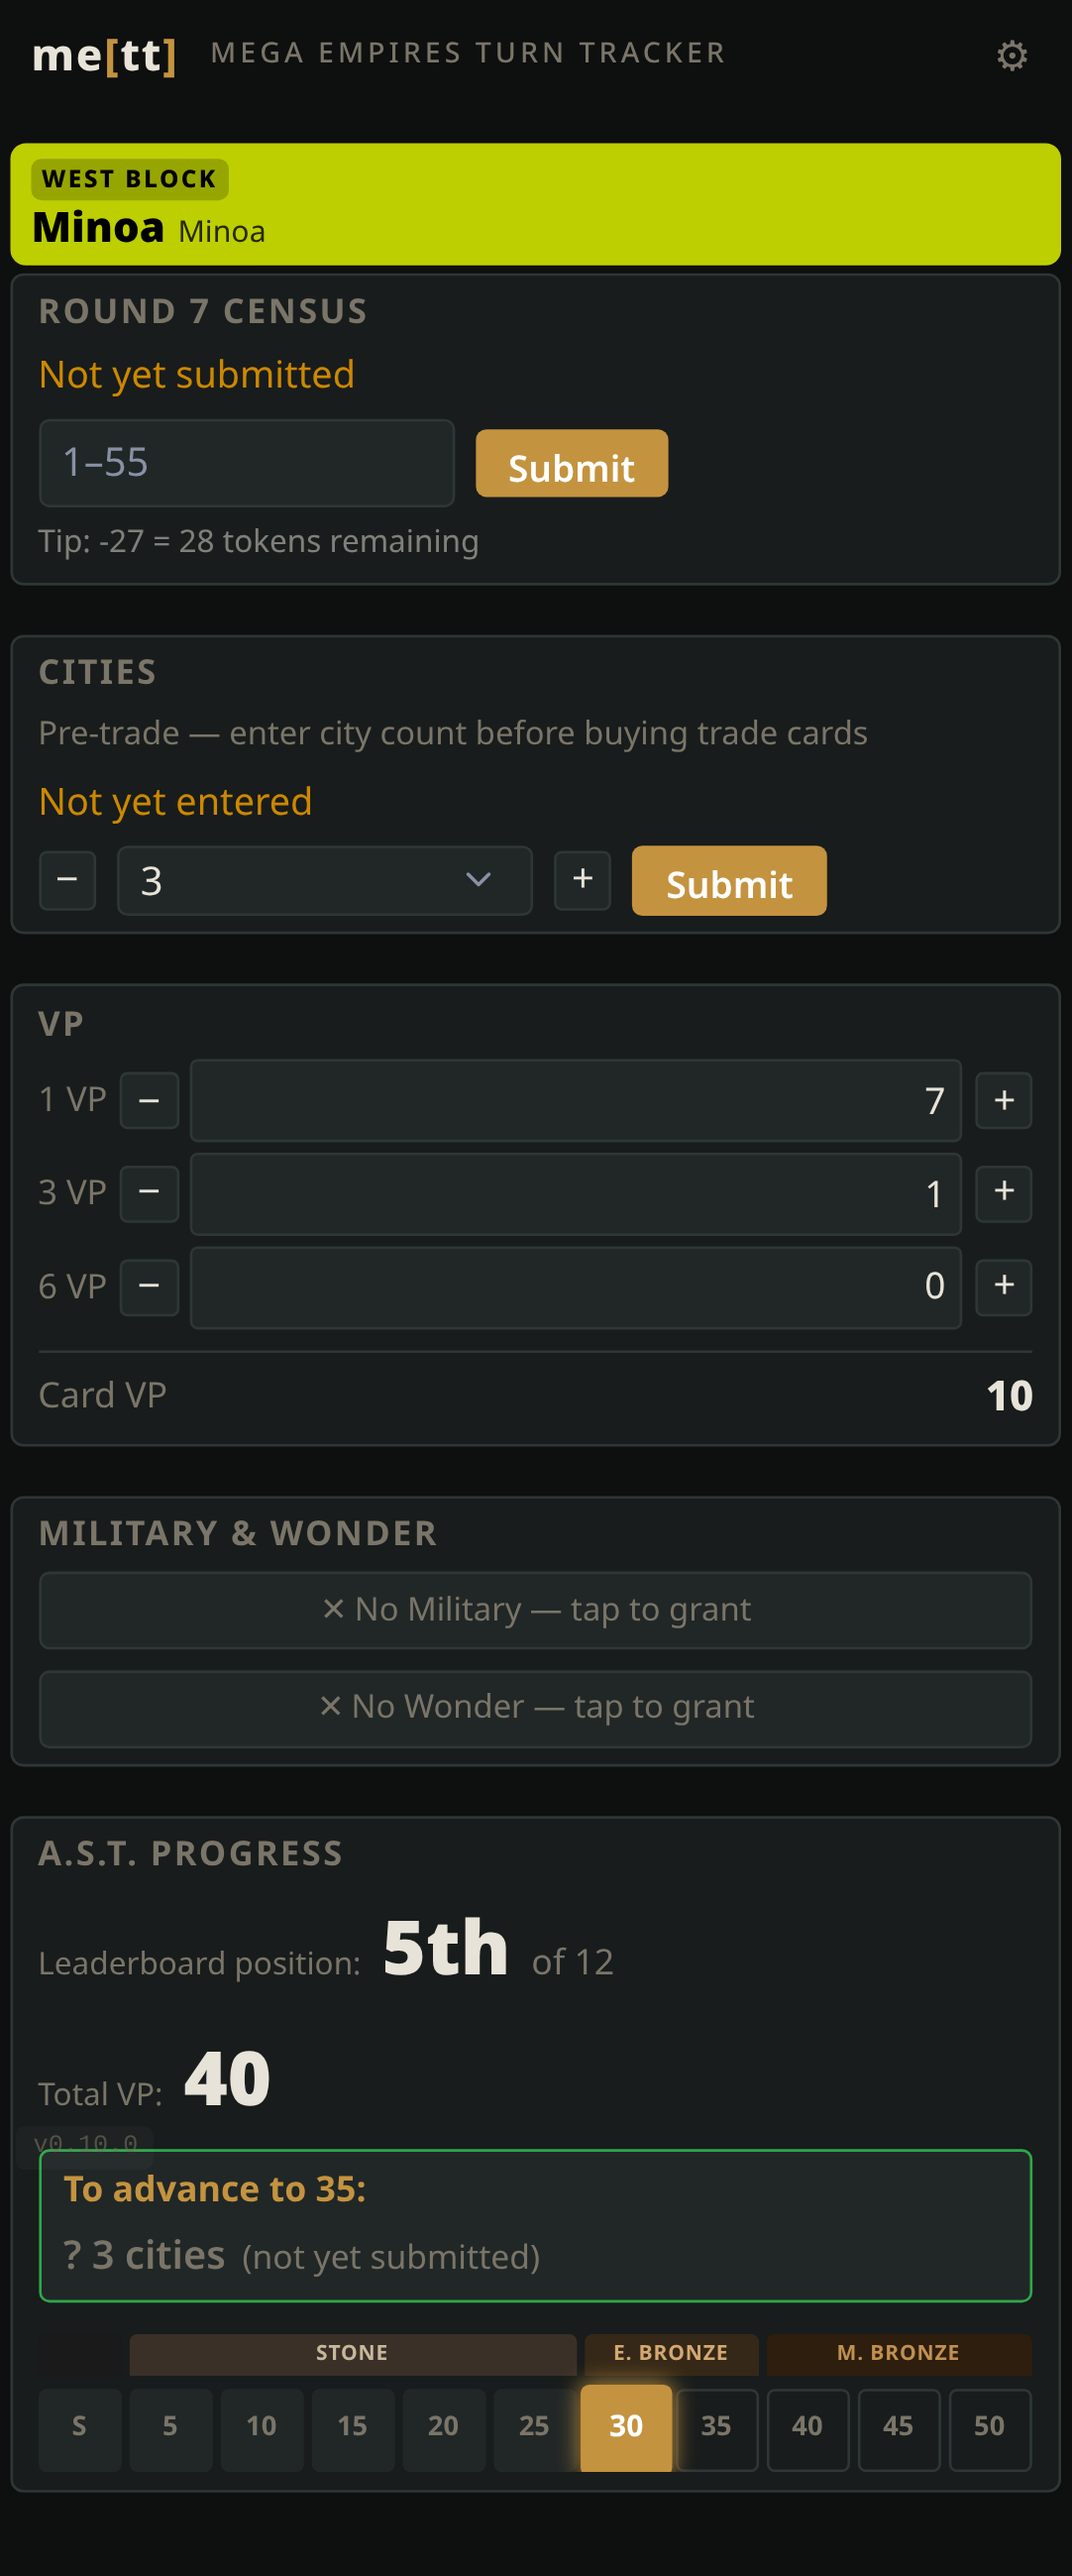
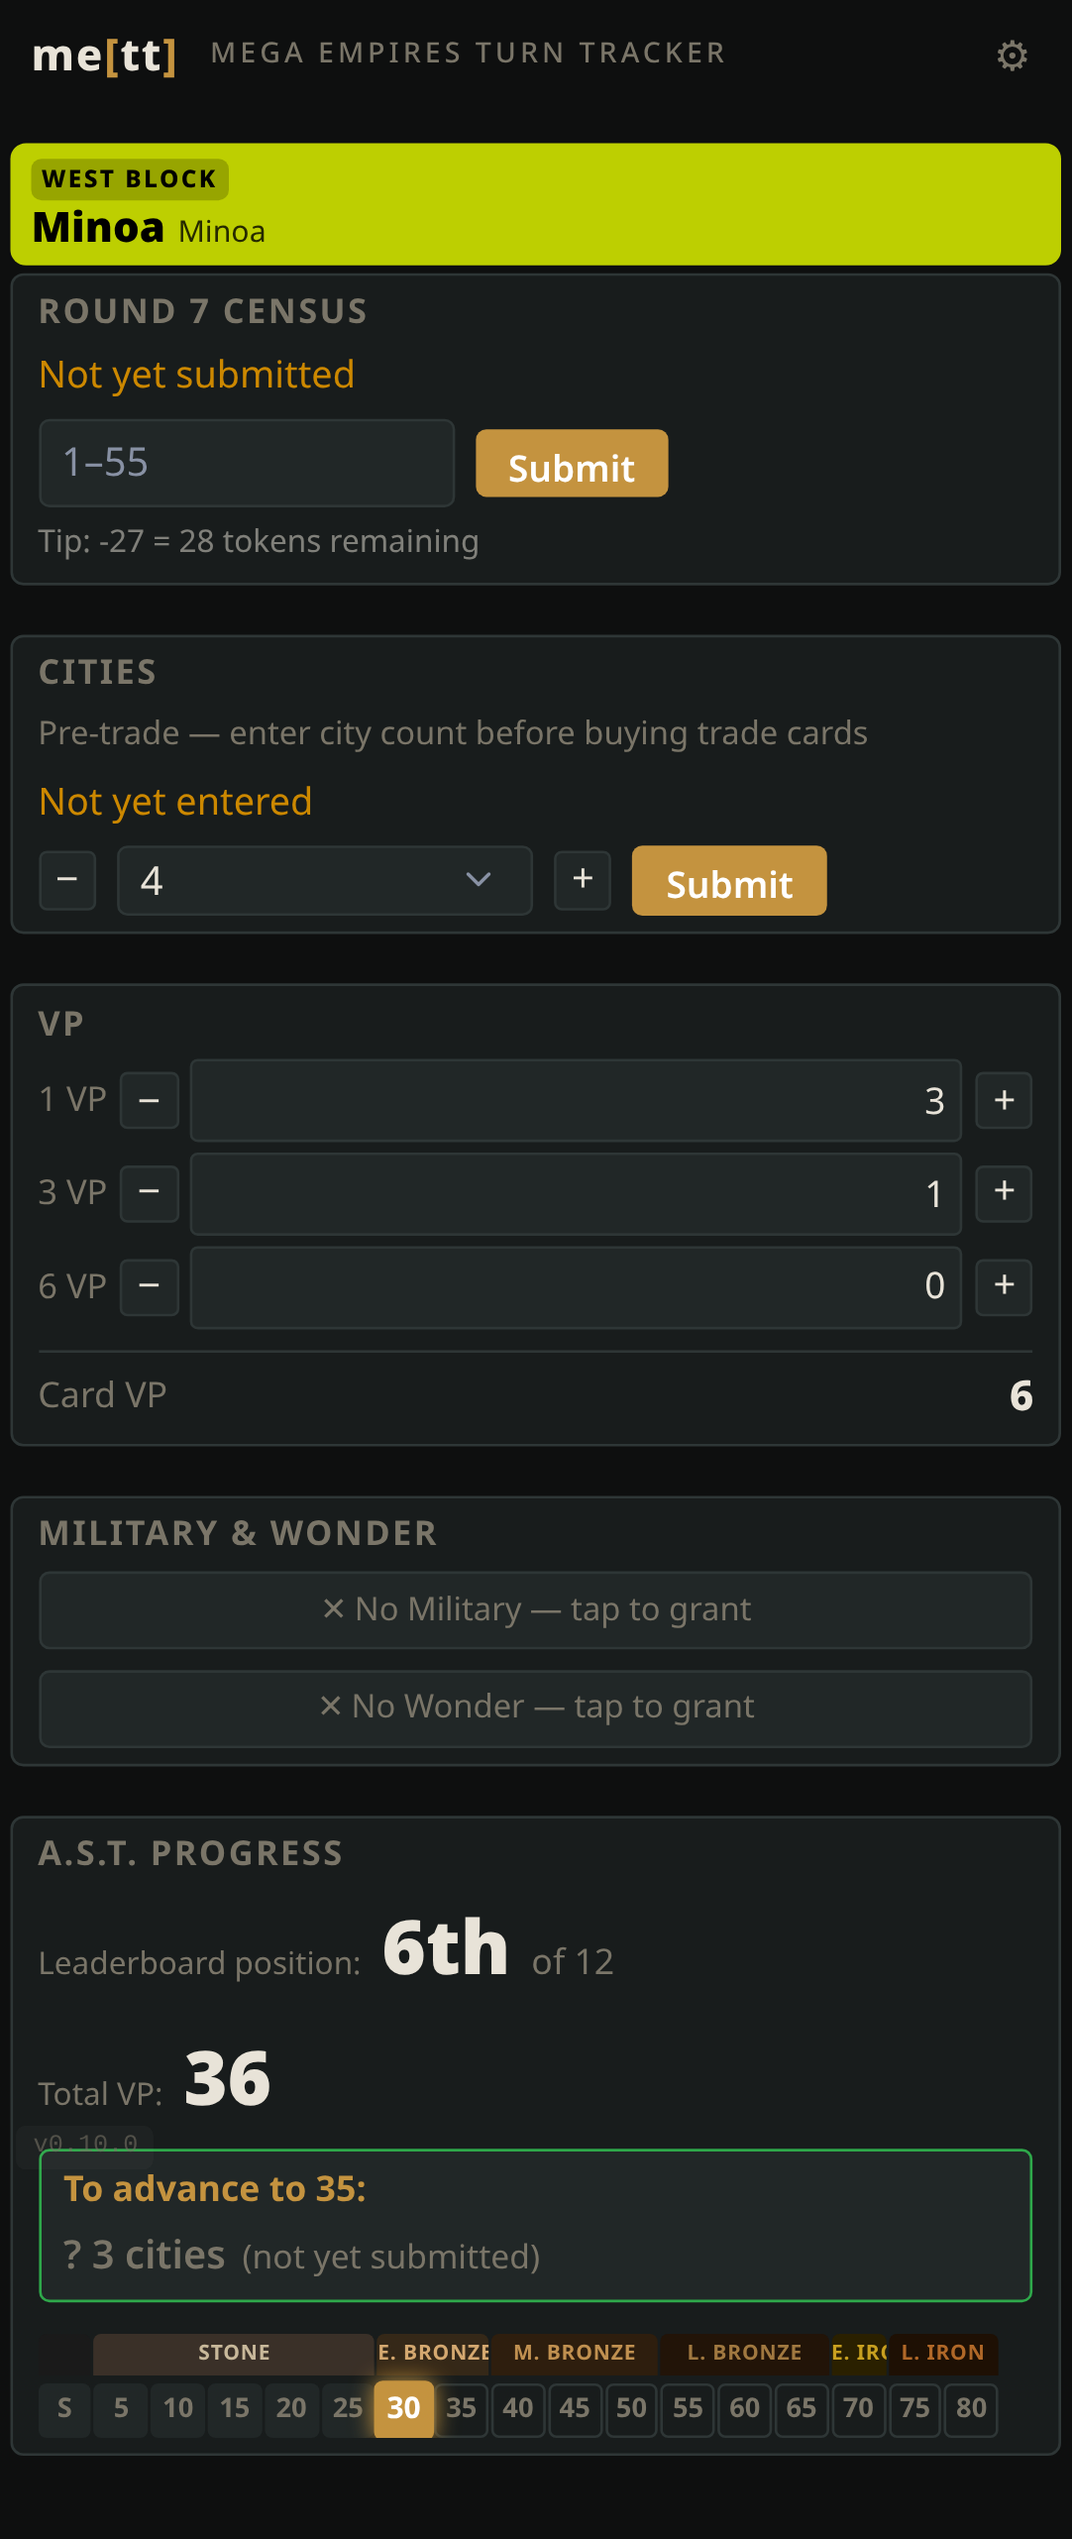
Civ-page AST strip: fit 17 nodes on phone
Two bugs combined to make the AST progress strip overflow horizontally
on phone, with no scroll affordance to discover the rest:

- The phone-breakpoint override at @media (max-width: 43.75em) was
  declared BEFORE the unconditional default further down in the file,
  so the default (2rem) always won the cascade regardless of viewport.
  Moved the default --ast-node-size / --ast-node-gap into the
  top-level :root block so the media-query override actually takes
  effect.

- Even with the override applying (1.5rem nodes), 17 nodes (expert
  mode) didn't fit in a 412 CSS-px Pixel 7 viewport. Tightened the
  phone values: --ast-node-size 1.5 → 1.3rem, --ast-node-gap
  0.125 → 0.0625rem, .ast-age-label font 0.38 → 0.36rem. Now fits
  with 13 px margin even in expert mode.

Screenshots regenerated; the civ page now shows the full STONE → L.
IRON era band and all 17 level numbers without horizontal scroll.

diff --git a/public/css/style.css b/public/css/style.css
@@ -34,6 +34,13 @@
   --col-adv-pts: 1.9rem;
   --col-ast-pts: 1.9rem;
   --col-total-vp: 2.4rem;
+
+  /* AST progress strip on the civ page. Phone breakpoint below
+     overrides these. Declared up here (not next to .ast-progress-grid)
+     so a later unconditional :root block can't accidentally beat the
+     media-query override on source order. */
+  --ast-node-size: 2rem;
+  --ast-node-gap: 0.1875rem;
 }
 
 body {
@@ -1083,9 +1090,11 @@ main.container-fluid:has(.status-grid) { padding-block: 0.25rem; }
   .ast-next h4 { font-size: 0.7rem; margin-bottom: 0.12rem; }
   .ast-req-text { font-size: 0.78rem; }
   .ast-mode-note { font-size: 0.64rem; margin-top: 0.1rem; }
-  :root { --ast-node-size: 1.5rem; --ast-node-gap: 0.125rem; }
+  /* AST strip: 17 nodes (expert mode) must fit in a 412 CSS-px phone
+     viewport without horizontal scroll. */
+  :root { --ast-node-size: 1.3rem; --ast-node-gap: 0.0625rem; }
   .ast-node { font-size: 0.55rem; }
-  .ast-age-label { font-size: 0.38rem; padding: 0.0625rem 0; margin-bottom: 0.0625rem; }
+  .ast-age-label { font-size: 0.36rem; padding: 0.0625rem 0; margin-bottom: 0.0625rem; }
 }
 
 .civ-section {
@@ -1252,8 +1261,6 @@ main.container-fluid:has(.status-grid) { padding-block: 0.25rem; }
   scrollbar-width: none; /* Firefox */
 }
 .ast-bar-wrap::-webkit-scrollbar { display: none; } /* Chrome/Safari */
-
-:root { --ast-node-size: 2rem; --ast-node-gap: 0.1875rem; }
 
 .ast-progress-grid {
   display: grid;
